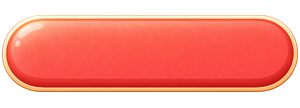
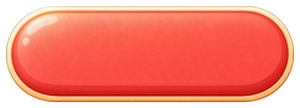
Add section 13 UI assets and tighten padding: badge

diff --git a/app/assets/ui/provenance/prompts-badge.md b/app/assets/ui/provenance/prompts-badge.md
@@ -72,3 +72,31 @@ Processing: Trim alpha margin and proportionally fit exact canvas without stretc
 
 Source: C:\Users\User\.codex\generated_images\01a16dc8-84e9-7e73-953c-375657e785a2\exec-a54579f7-386d-4c75-93da-90ac323841d8.png
 
+
+# Section13 additions
+
+## badge/sample.png
+
+Final: 300x72 PNG.
+
+Method: built-in image_gen
+
+Prompt: Create ONE production UI bitmap asset: Blank dark brown #4A3B32 rounded small label, empty center for app-drawn text. 9slice horizontal stretch-safe plain middle, subtle paper texture soft upper-left edge highlight.6px transparent clearance.. Final canvas 300x72, requested aspect 300:72. Cozy Nekomobby UI family, warm cream #FFF8F0 brown #4A3B32 orange #F28B20 green #5E9B3F, softly rounded forms and restrained paper texture with upper-left light, very subtle downward shadow. Genuinely transparent outside artwork, smooth clean alpha edges without white fringe. Straight-on orthographic component, not a UI mockup. Absolutely NO text NO letters NO numerals NO labels. NO extra flowers NO extra leaves NO extra objects.
+
+Source: C:\Users\User\.codex\generated_images\01a16dc8-84e9-7e73-953c-375657e785a2\exec-aae7e95f-1132-4674-a5c8-c9c3b8122c35.png
+
+Processing: Trim source alpha margin and proportionally fit exact canvas with6px minimum clearance; crop visible alpha>8 boundary, preserve cap patches, resize only stretch bands into6px outer shadow margin
+
+## badge/picked-stamp.png
+
+Final: 240x240 PNG.
+
+Method: built-in image_gen
+
+Prompt: Create ONE production UI bitmap asset: Single vermilion red paw-print rubber stamp slightly rotated about12degrees, lightly distressed ink on transparent background. No text no circle border no words no extra symbols. One large pad and four small toe pads. Soft warm stationery style.. Final canvas 240x240, requested aspect 240:240. Cozy Nekomobby UI family, warm cream #FFF8F0 brown #4A3B32 orange #F28B20 green #5E9B3F, softly rounded forms and restrained paper texture with upper-left light, very subtle downward shadow. Genuinely transparent outside artwork, smooth clean alpha edges without white fringe. Straight-on orthographic component, not a UI mockup. Absolutely NO text NO letters NO numerals NO labels. NO extra flowers NO extra leaves NO extra objects.
+
+Source: C:\Users\User\.codex\generated_images\01a16dc8-84e9-7e73-953c-375657e785a2\exec-854454bf-6db2-4ea3-b9ae-78949ad66c92.png
+
+Processing: Trim source alpha margin and proportionally fit exact canvas with6px minimum clearance
+
+9slice padding normalization: see stretch-normalization.json. Exactfinal slice values: manifest.json. Original image corners and icon cap patches retained; only stretch bands resized.
